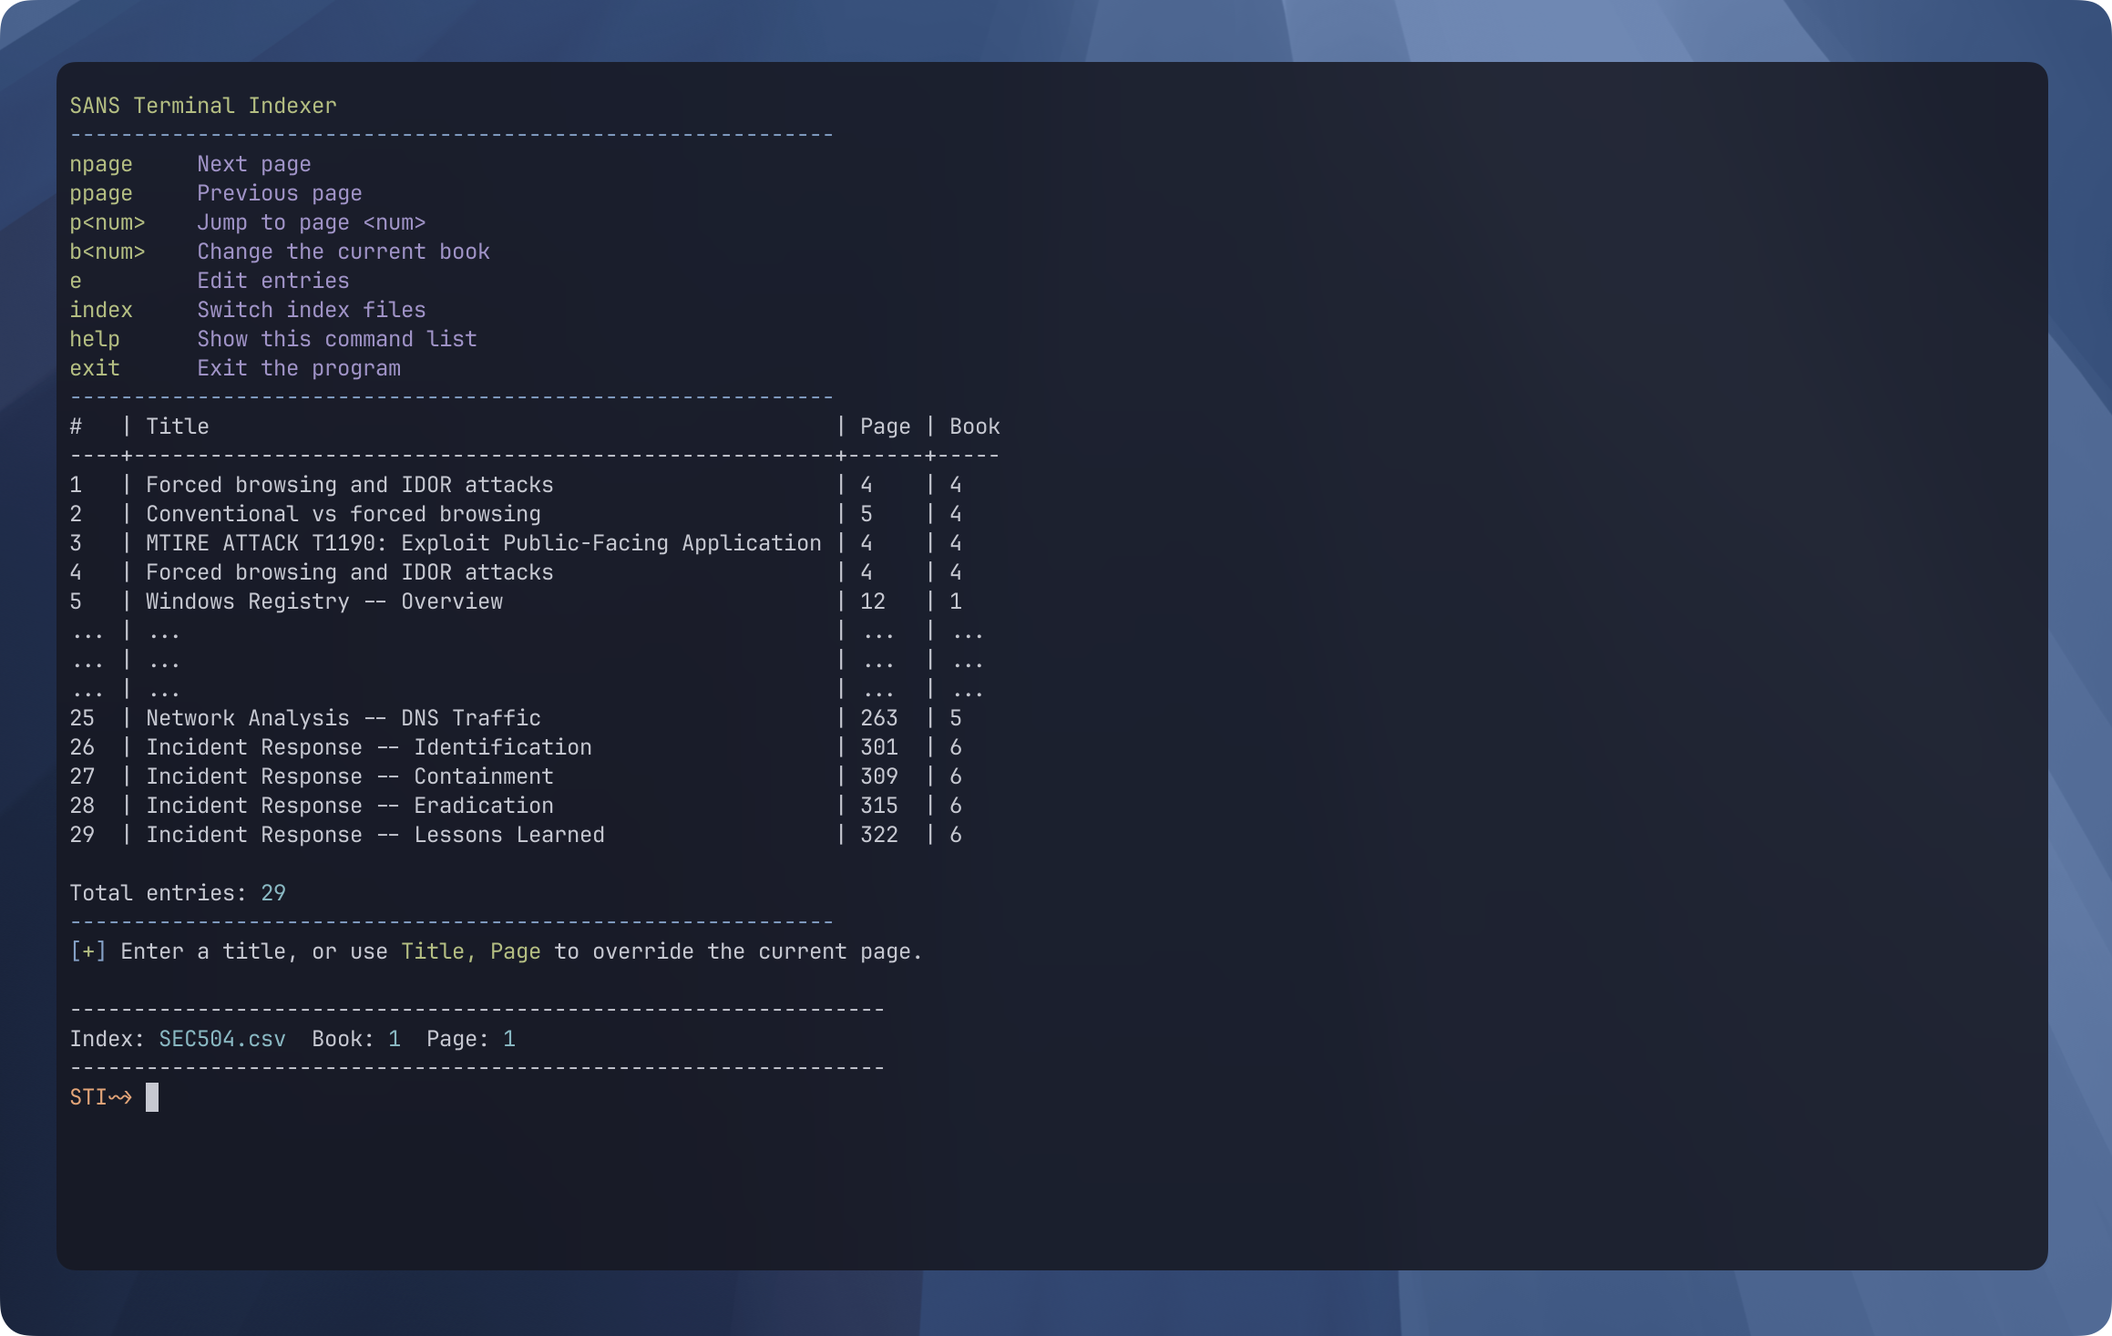
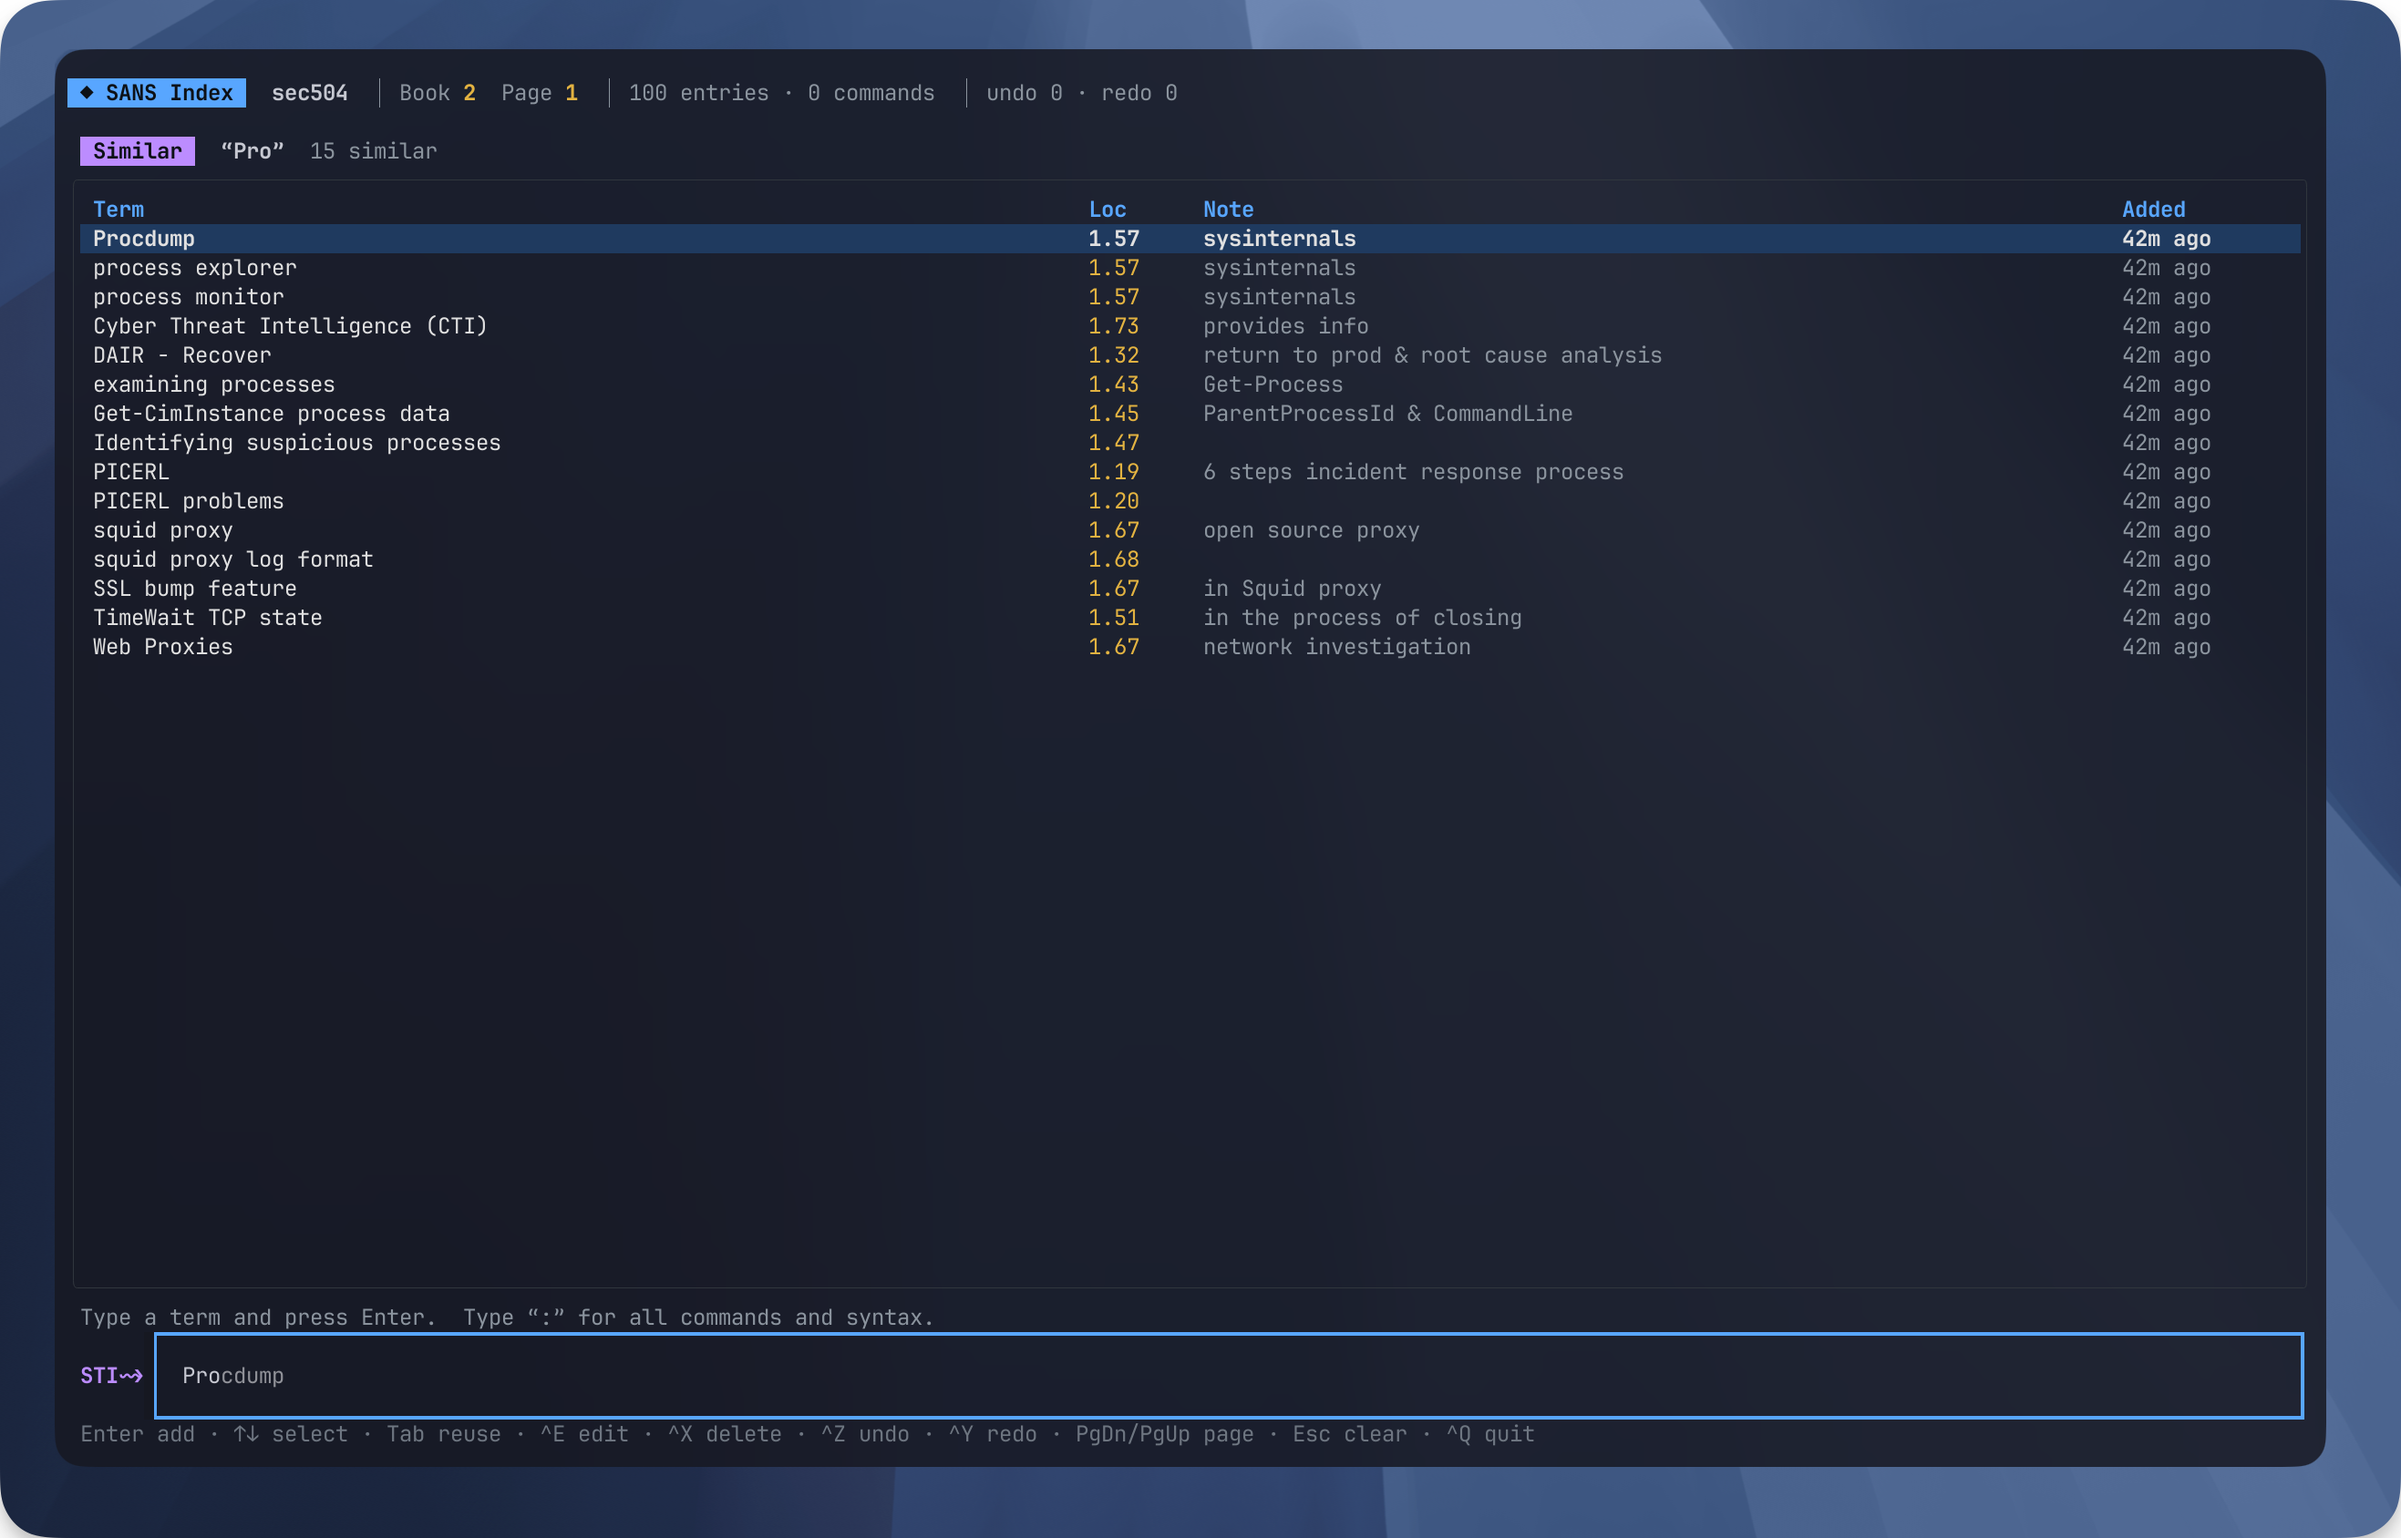
support transparent background

diff --git a/index.py b/index.py
@@ -10,6 +10,8 @@ SANS Index Builder: a one-line, keyboard-only indexer for SANS courses.
     python sans_index.py              # pick or create an index in ./.Index/
     python sans_index.py SEC504       # open/create ./.Index/SEC504.db
     python sans_index.py SEC504 --import-csv old.csv    # Term,Book,Page,Note CSV (old script format OK)
+    python sans_index.py SEC504 --transparent           # use the terminal's own (transparent) background
+                                                        # or set SANS_INDEX_TRANSPARENT=1 to make it permanent
 
 Everything happens on one prompt line:
 
@@ -29,6 +31,7 @@ from __future__ import annotations
 
 import argparse
 import csv
+import os
 import re
 import sqlite3
 import sys
@@ -600,6 +603,13 @@ Screen {{ background: #0d1117; }}
 #prompt {{ width: 1fr; border: tall {ACC}; background: #161b22; }}
 #prompt.editing {{ border: tall {WARN}; }}
 #hint {{ height: 1; color: #6e7681; background: #161b22; }}
+
+/* --transparent: let the terminal's own background (and its transparency) show through */
+Screen.transparent, Screen.transparent #top, Screen.transparent #panel, Screen.transparent #hint,
+Screen.transparent #prompt, Screen.transparent #prompt.editing {{ background: ansi_default; }}
+Screen.transparent #panel > .datatable--header,
+Screen.transparent #panel > .datatable--even-row,
+Screen.transparent #panel > .datatable--odd-row {{ background: ansi_default; }}
 """
 
 
@@ -621,8 +631,10 @@ class IndexApp(App):
         Binding("escape", "escape", show=False, priority=True),
     ]
 
-    def __init__(self, db: IndexDB):
-        super().__init__()
+    def __init__(self, db: IndexDB, transparent: bool = False):
+        # ansi_color lets Textual emit the terminal's *default* background instead of a solid colour
+        super().__init__(ansi_color=True if transparent else None)
+        self.transparent = transparent
         self.db = db
         self.index_name = db.path.stem
         self.book = db.get_meta("book", "1")
@@ -648,6 +660,8 @@ class IndexApp(App):
 
     def on_mount(self):
         self.theme = "textual-dark"
+        if self.transparent:
+            self.screen.add_class("transparent")
         self.table = self.query_one("#panel", DataTable)
         self.table.can_focus = False                       # focus never leaves the prompt
         self.prompt = self.query_one("#prompt", Input)
@@ -1026,6 +1040,9 @@ def main():
                                  epilog=__doc__)
     ap.add_argument("index", nargs="?", help="index name (e.g. SEC504) or path to a .db file")
     ap.add_argument("--import-csv", metavar="FILE", help="import a CSV (Term,Book,Page,Note) and exit")
+    ap.add_argument("--transparent", action="store_true",
+                    help="use the terminal's background (for transparent terminals); "
+                         "or set SANS_INDEX_TRANSPARENT=1")
     ap.add_argument("--export", metavar="MODE", nargs="?", const="all",
                     help="export without opening the TUI: all | csv | docx | combined")
     args = ap.parse_args()
@@ -1044,7 +1061,8 @@ def main():
         return
 
     db.backup()
-    IndexApp(db).run()
+    transparent = args.transparent or os.environ.get("SANS_INDEX_TRANSPARENT", "").lower() in ("1", "true", "yes", "on")
+    IndexApp(db, transparent=transparent).run()
 
 
 if __name__ == "__main__":

diff --git a/README.md b/README.md
@@ -38,16 +38,16 @@ cd idxbuilder
 The script declares its own dependencies ([PEP 723](https://peps.python.org/pep-0723/)), so [uv](https://docs.astral.sh/uv/) installs them into a cached environment the first time you run it. There's nothing else to set up.
 
 ```bash
-uv run sans_index.py              # pick or create an index
-uv run sans_index.py SEC504       # open or create the SEC504 index
+uv run index.py              # pick or create an index
+uv run index.py SEC504       # open or create the SEC504 index
 ```
 
 ### Option 2: plain Python
 
 ```bash
 pip install textual python-docx
-python3 sans_index.py             # pick or create an index
-python3 sans_index.py SEC504      # open or create the SEC504 index
+python3 index.py             # pick or create an index
+python3 index.py SEC504      # open or create the SEC504 index
 ```
 
 If pip refuses with an *"externally-managed-environment"* error (recent Ubuntu, Debian and Kali), use a virtual environment:
@@ -56,7 +56,22 @@ If pip refuses with an *"externally-managed-environment"* error (recent Ubuntu, 
 python3 -m venv .venv
 source .venv/bin/activate         # Windows: .venv\Scripts\activate
 pip install textual python-docx
-python sans_index.py SEC504
+python index.py SEC504
+```
+
+### Transparent background (optional)
+ 
+By default the tool draws its own dark background. If your terminal is transparent and you want that to show through, start it with `--transparent`:
+ 
+```bash
+uv run sans_index.py SEC504 --transparent
+python3 sans_index.py SEC504 --transparent
+```
+ 
+To make it permanent, set the environment variable in your shell profile (`~/.bashrc`, `~/.zshrc`):
+ 
+```bash
+export SANS_INDEX_TRANSPARENT=1
 ```
 
 ## Adding entries
@@ -137,8 +152,8 @@ Print the two DOCX files separately and keep them side by side in the exam. Use 
 You can also export without opening the app:
 
 ```bash
-uv run sans_index.py SEC504 --export          # or: python3 sans_index.py SEC504 --export
-uv run sans_index.py SEC504 --export csv
+uv run index.py SEC504 --export          # or: python3 index.py SEC504 --export
+uv run index.py SEC504 --export csv
 ```
 
 ## Importing an existing CSV
@@ -146,9 +161,9 @@ uv run sans_index.py SEC504 --export csv
 CSV files from the original script (`Term,Book,Page,Note`) and this tool's own CSV export can be imported:
 
 ```bash
-uv run sans_index.py SEC504 --import-csv .Index/SEC504.csv
+uv run index.py SEC504 --import-csv .Index/SEC504.csv
 # or
-python3 sans_index.py SEC504 --import-csv .Index/SEC504.csv
+python3 index.py SEC504 --import-csv .Index/SEC504.csv
 ```
 
 Duplicates (the same term on the same book and page) are skipped. Terms starting with `$ ` are imported as commands.
@@ -159,7 +174,7 @@ Indexes are SQLite databases in a hidden `.Index` directory inside the current w
 
 ```
 idxbuilder/
-├── sans_index.py
+├── index.py
 └── .Index/
     ├── SEC504.db          ← your index
     ├── SEC503.db
@@ -167,7 +182,7 @@ idxbuilder/
     └── exports/           ← DOCX / CSV output
 ```
 
-You can also pass a path directly: `python3 sans_index.py ~/indexes/FOR508.db`.
+You can also pass a path directly: `python3 index.py ~/indexes/FOR508.db`.
 
 ## Troubleshooting
 
